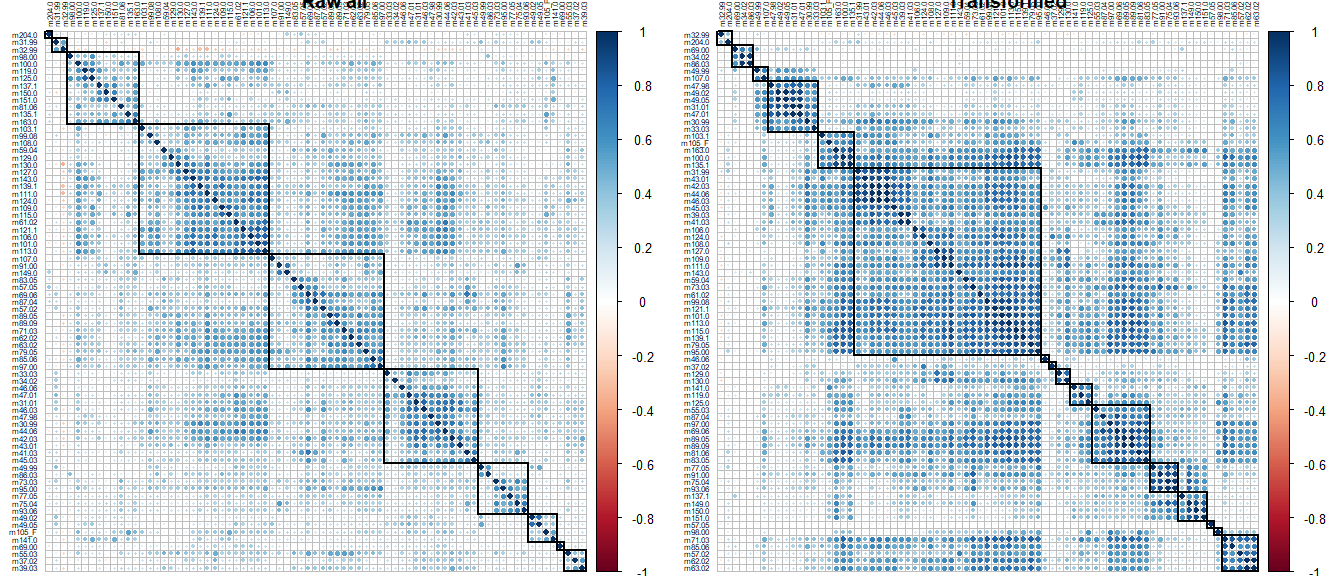
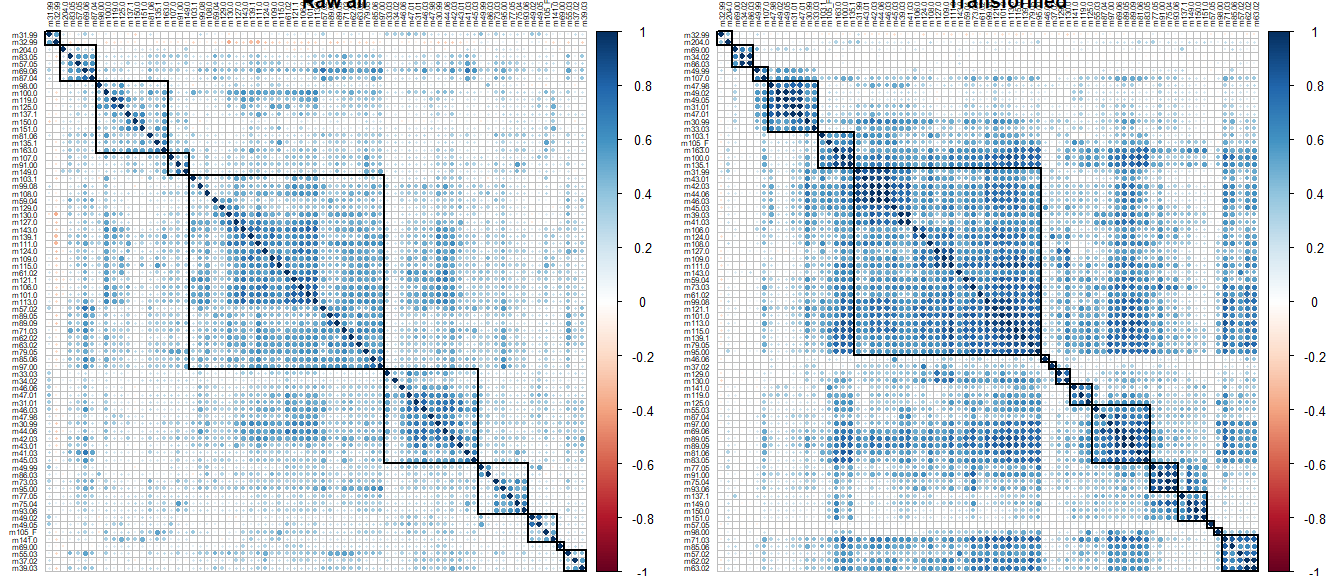
Screwed up and didn't commit for a while. Lots of changes

Changed region(s): [[0.0, 0.0, 0.4375, 0.875], [0.0312, 0.9062, 0.2188, 1.0], [0.4062, 0.4062, 0.4375, 0.4375]]

diff --git a/Rmds/VOC_clustering.md b/Rmds/VOC_clustering.md
@@ -12,7 +12,9 @@ The clean RDS data file should be available locally after you run the
 output the RDS we use here. The data we will be using has no duplicates
 and uses a 10% threshold. This threshold establishes the minimum number
 of samples that would show a given compound for that compound to be
-included in the analysis.
+included in the analysis. The reason why we don’t use a higher threshold
+is that since we are comparing males and females, we basically assume
+there’s only a 50% chance of a given volatile to be present.
 
 ## Data exploration
 
@@ -22,20 +24,25 @@ With a quick check, we see that the numbers are very small and that
 different compounds have very different ranges as well.  
 ![](VOC_clustering_files/figure-gfm/unnamed-chunk-1-1.png)<!-- -->
 
-We also know that there are a significant number of zeros in the data,
-and if we visualize it without the zeroes, it can give us some insight
-regarding the abundant compounds which we are actually interested in.
-However, when you compare these two figures, they don’t seem too
-different
+Several of these compounds have a measure of zero, which kind of throws
+off the scaling and transformations:
 
 ![](VOC_clustering_files/figure-gfm/unnamed-chunk-2-1.png)<!-- -->
 
 We might want to get a hint of what the data looks like for males and
-females and how these might differ by family.
+females and how these might differ by family. Which, overall it seems
+like data between males and females isn’t too different, but seems like
+differences between families might be a thing.
 
 ![](VOC_clustering_files/figure-gfm/unnamed-chunk-3-1.png)<!-- -->
 
-![](VOC_clustering_files/figure-gfm/facetPlot-1.png)<!-- -->
+<details>
+
+<summary> <i> Facet Plots </i>
+
+![](VOC_clustering_files/figure-gfm/facetPlot-1.png)<!-- --> </summary>
+
+</details>
 
 ## Data transformation
 
@@ -100,30 +107,30 @@ We can try an NMDS following the process Leslie had done in the past,
 which still doesn’t show convergence.
 
     ## Wisconsin double standardization
-    ## Run 0 stress 0.1117267 
-    ## Run 1 stress 0.1263973 
-    ## Run 2 stress 0.1282973 
-    ## Run 3 stress 0.1289812 
-    ## Run 4 stress 0.1250149 
-    ## Run 5 stress 0.1222848 
-    ## Run 6 stress 0.1231389 
-    ## Run 7 stress 0.123895 
-    ## Run 8 stress 0.1190794 
-    ## Run 9 stress 0.1230524 
-    ## Run 10 stress 0.1213023 
-    ## Run 11 stress 0.1214619 
-    ## Run 12 stress 0.1267318 
-    ## Run 13 stress 0.1255876 
-    ## Run 14 stress 0.1281756 
-    ## Run 15 stress 0.124551 
-    ## Run 16 stress 0.1281346 
-    ## Run 17 stress 0.1193285 
-    ## Run 18 stress 0.1166693 
-    ## Run 19 stress 0.121207 
-    ## Run 20 stress 0.1188776 
+    ## Run 0 stress 0.1115093 
+    ## Run 1 stress 0.1196349 
+    ## Run 2 stress 0.1198012 
+    ## Run 3 stress 0.1267598 
+    ## Run 4 stress 0.1186576 
+    ## Run 5 stress 0.1216793 
+    ## Run 6 stress 0.1256203 
+    ## Run 7 stress 0.1234117 
+    ## Run 8 stress 0.1192148 
+    ## Run 9 stress 0.1177543 
+    ## Run 10 stress 0.1289244 
+    ## Run 11 stress 0.1271547 
+    ## Run 12 stress 0.12603 
+    ## Run 13 stress 0.1194855 
+    ## Run 14 stress 0.1250388 
+    ## Run 15 stress 0.1259852 
+    ## Run 16 stress 0.1200902 
+    ## Run 17 stress 0.1279017 
+    ## Run 18 stress 0.1201084 
+    ## Run 19 stress 0.1267098 
+    ## Run 20 stress 0.1198467 
     ## *** No convergence -- monoMDS stopping criteria:
-    ##      2: no. of iterations >= maxit
-    ##     18: stress ratio > sratmax
+    ##      1: no. of iterations >= maxit
+    ##     19: stress ratio > sratmax
 
 ![](VOC_clustering_files/figure-gfm/unnamed-chunk-13-1.png)<!-- -->
 
